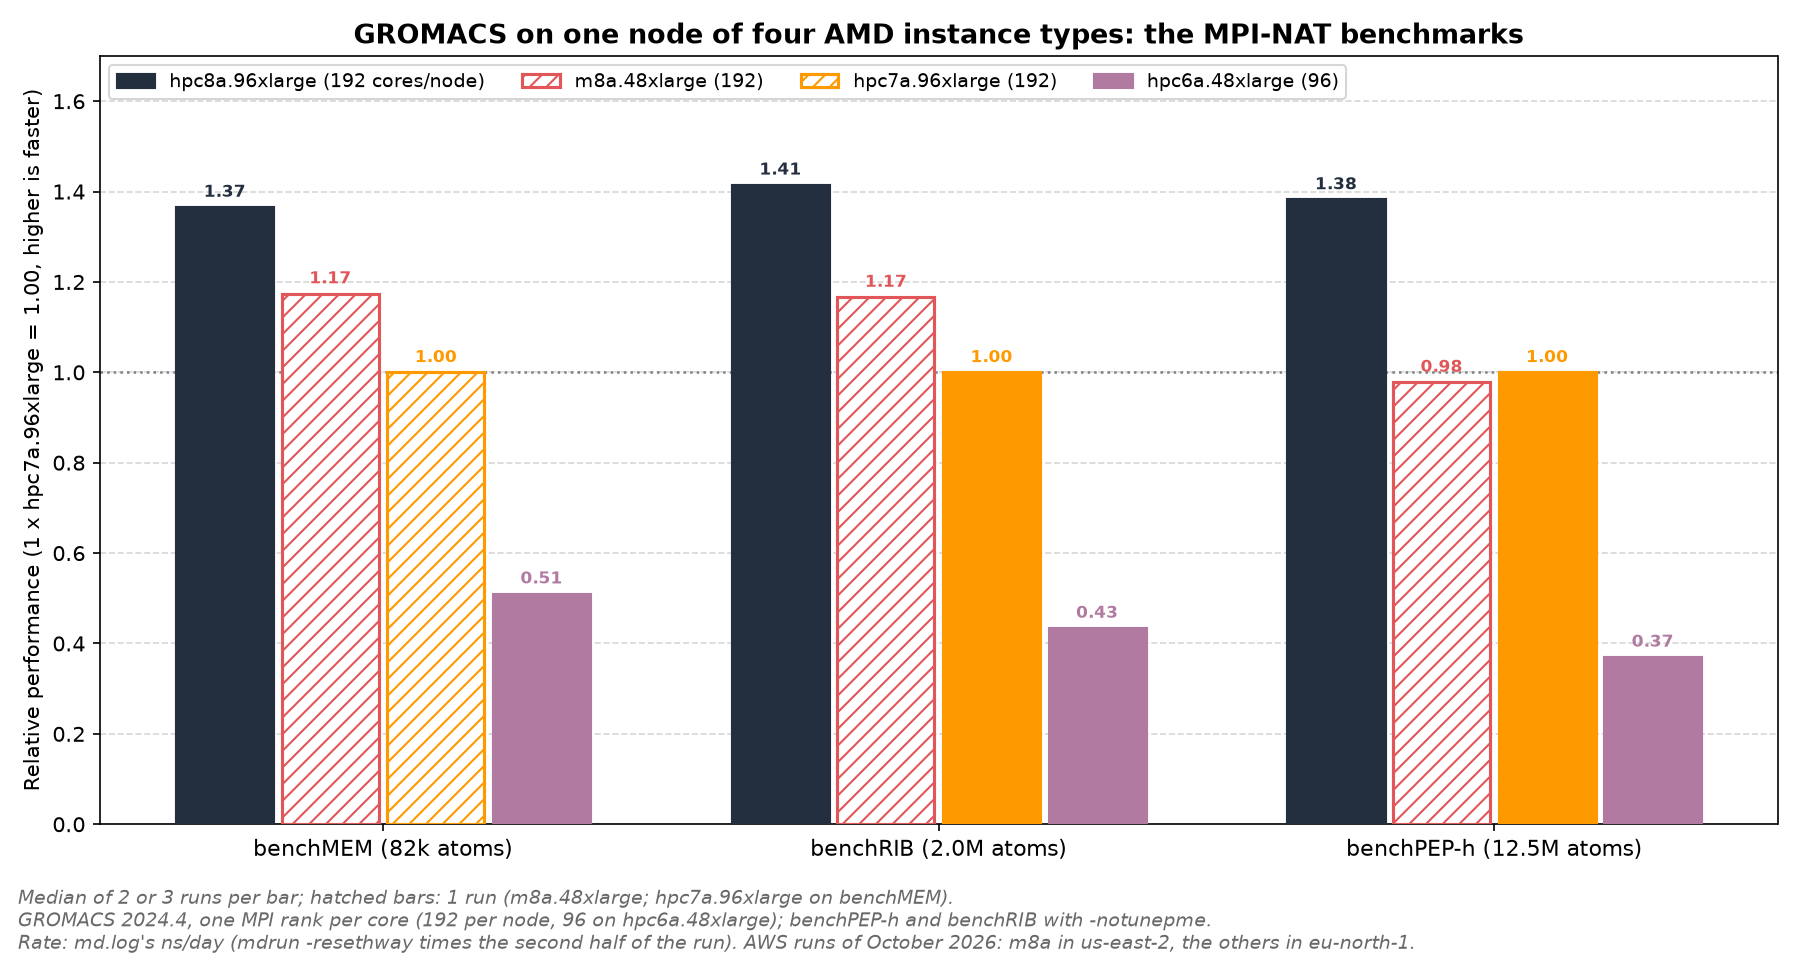
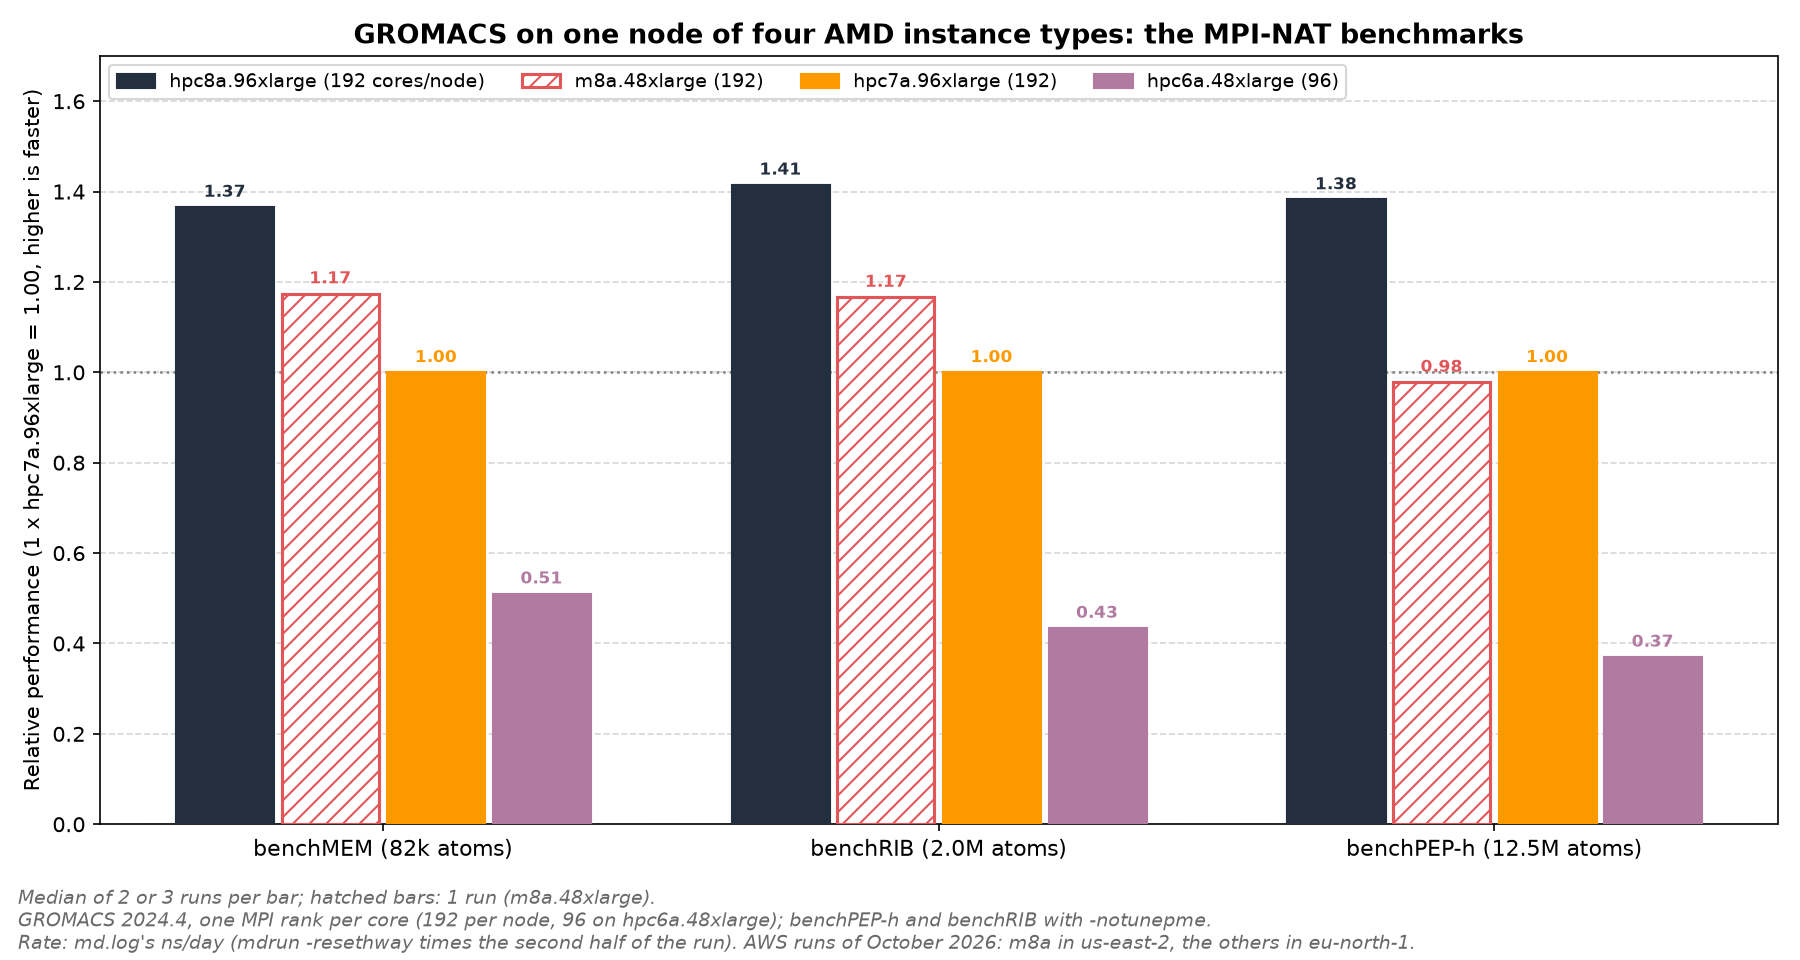
docs(GROMACS): the benchMEM reference rests on three runs
The reference of every AMD benchMEM value, one hpc7a.96xlarge node, now has
three runs: the earlier one and two more with the same protocol, in the
same Region. Their median is the earlier run's rate, so no relative value
or efficiency moves. The two AMD tables now mark the reference with its 3
runs, 23 of the 25 AMD points with more than one run agree within 5%, and
the generator's run count for that point is 3: both charts draw it filled
and drop it from their single-run notes. With matplotlib 3.11.2 the
generator rewrites both PNGs byte for byte.

diff --git a/Doc/img/Gromacs/generate_instance_charts.py b/Doc/img/Gromacs/generate_instance_charts.py
@@ -47,7 +47,7 @@ DATA = {
     "benchMEM": {
         "hpc8a.96xlarge": {1: (1.36583, 3), 2: (1.52214, 3), 4: (1.12584, 3)},
         "m8a.48xlarge": {1: (1.17437, 1), 2: (1.25013, 1)},
-        "hpc7a.96xlarge": {1: (1.00000, 1), 2: (0.84382, 2), 4: (0.64574, 2)},
+        "hpc7a.96xlarge": {1: (1.00000, 3), 2: (0.84382, 2), 4: (0.64574, 2)},
         "hpc6a.48xlarge": {1: (0.51017, 2), 2: (0.61198, 2), 4: (0.68318, 2)},
     },
     "benchRIB": {

diff --git a/apps/Gromacs/README.md b/apps/Gromacs/README.md
@@ -336,7 +336,7 @@ Relative performance on one node (1 node `hpc7a.96xlarge` = 1.00×):
 
 | Benchmark | hpc8a.96xlarge | m8a.48xlarge | hpc7a.96xlarge | hpc6a.48xlarge |
 |-----------|---------------:|-------------:|---------------:|---------------:|
-| benchMEM (82k atoms) | 1.37× | 1.17× (1 run) | 1.00× (1 run) | 0.51× |
+| benchMEM (82k atoms) | 1.37× | 1.17× (1 run) | 1.00× (3 runs) | 0.51× |
 | benchRIB (2.0M atoms) | 1.41× | 1.17× (1 run) | 1.00× | 0.43× |
 | benchPEP-h (12.5M atoms) | 1.38× | 0.98× (1 run) | 1.00× | 0.37× |
 
@@ -357,13 +357,13 @@ Relative performance on one node (1 node `hpc7a.96xlarge` = 1.00×):
 
 | Nodes | hpc8a.96xlarge | m8a.48xlarge | hpc7a.96xlarge | hpc6a.48xlarge |
 |------:|---------------:|-------------:|---------------:|---------------:|
-| 1 | 1.37× | 1.17× (1 run) | 1.00× (1 run) | 0.51× |
+| 1 | 1.37× | 1.17× (1 run) | 1.00× (3 runs) | 0.51× |
 | 2 | 1.52× (56%) | 1.25× (53%, 1 run) | 0.84× (42%) | 0.61× (60%) |
 | 4 | 1.13× (21%) | — | 0.65× (16%) | 0.68× (33%) |
 
 **benchRIB** on 2 `hpc6a.48xlarge` nodes: 0.73× (85%). With a quarter of the ranks on PME, its box has no PP domain grid for 2 nodes of the 192-core types (384 ranks; see [PME settings](#pme-settings)).
 
-Values are medians of 3 runs on hpc8a and of 2 on hpc7a and hpc6a, except where a cell gives its run count; m8a is one run per point. The runs shared each cluster's FSx for Lustre file system with 0 to 8 other benchmark jobs. The runs of 22 of the 24 points with more than one run agree within 5%. At the other two, the median sets the outlying run aside: on 2 and 4 hpc8a nodes the benchMEM runs spread 10% and 21%.
+Values are medians of 3 runs on hpc8a and of 2 on hpc7a and hpc6a, except where a cell gives its run count; m8a is one run per point. The runs shared each cluster's FSx for Lustre file system with 0 to 8 other benchmark jobs. The runs of 23 of the 25 points with more than one run agree within 5%. At the other two, the median sets the outlying run aside: on 2 and 4 hpc8a nodes the benchMEM runs spread 10% and 21%.
 
 Key takeaways:
 
